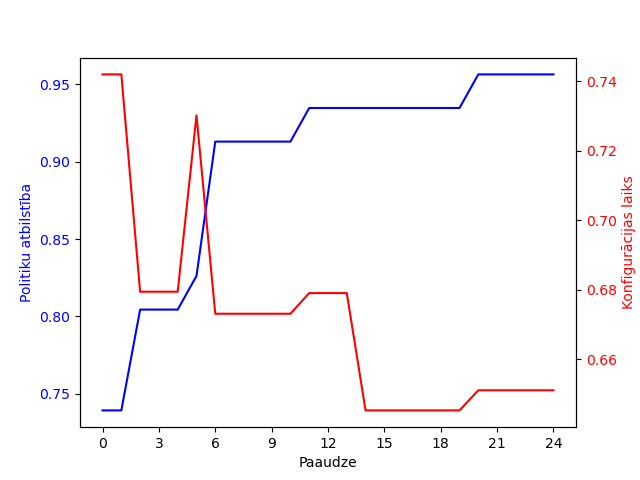
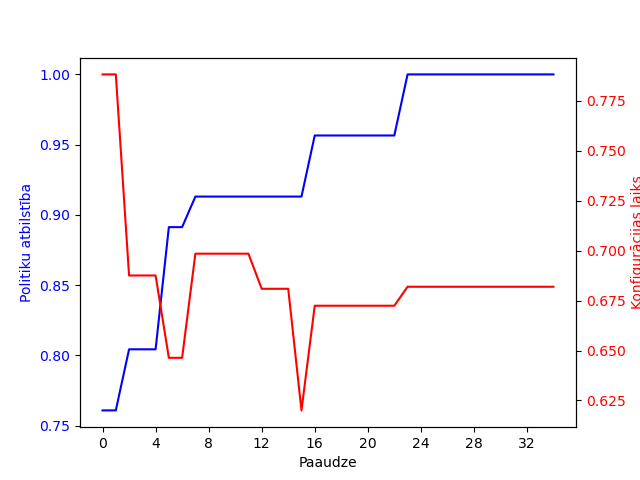
Switched to better example data

diff --git a/optimization_model.py b/optimization_model.py
@@ -310,7 +310,7 @@ toolbox.register("select", tools.selNSGA2)
 
 # Izpilda ģenētisko algortimu noteiktu iterāciju skaitu
 population = toolbox.population(n=12)
-NGEN = 25
+NGEN = 35
 
 # Masīvi modelēšanas rezultātu glabāšanai
 model_values = []
